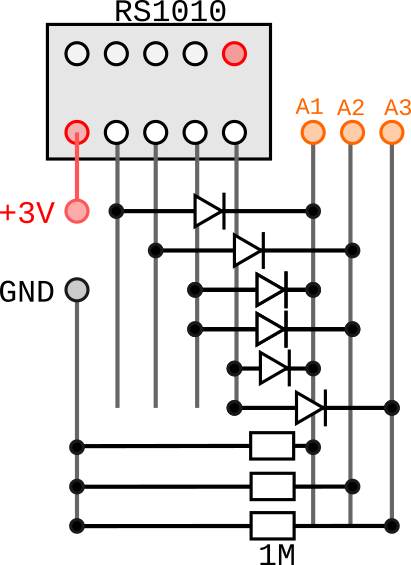
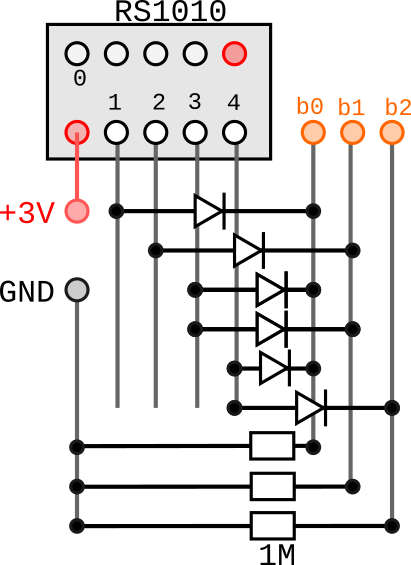
Update sche

diff --git a/05_electronics_circuit.md b/05_electronics_circuit.md
@@ -142,6 +142,8 @@ wiper = +3.3 V (gated)
 
 Same pattern for Fan (3 lines) and Mode (2 lines) on their own GPIO. Diodes prevent bus-tied contacts from shorting positions together; count = total set-bits across the used codes (~19 for Temp codes 0–10, fewer for the smaller switches).
 
+![RS1010 diode encoding wiring](images/circuit/rs1010_wiring_2.png)
+
 - **Parts:** loose small-signal diodes — **1N4148** (THT) or **BAV99/BAV70** (SOT-23, 2 per package). There is *no* dedicated "diode encoder" product (searching "diode array" returns photodiode/ESD parts); a coded switch [§3.4](#34-option-c--off-the-shelf-coded-rotary-switch-considered) *is* the integrated version of exactly this. So it's hand-wired loose diodes — which lays out cleanly on perfboard: one rail per code line, diodes from contacts to rails.
 - **Position** = read each switch's GPIO group as a small nibble. Works on **any 1P switch** — Alpha SR1610 1P, Lorlin CK1032 1P, Grayhill 56 1P12T — chosen on body size and detent feel.
 - **No shared bus.** Each switch on its own lines avoids the superposition problem — three switches sharing one bus would OR their codes together and become unreadable without scanning, and scanning needs the MCU awake (no help for wake). Independent lines keep both readout and wake trivial. (A shared scanned matrix only pays off at many more switches than three.)